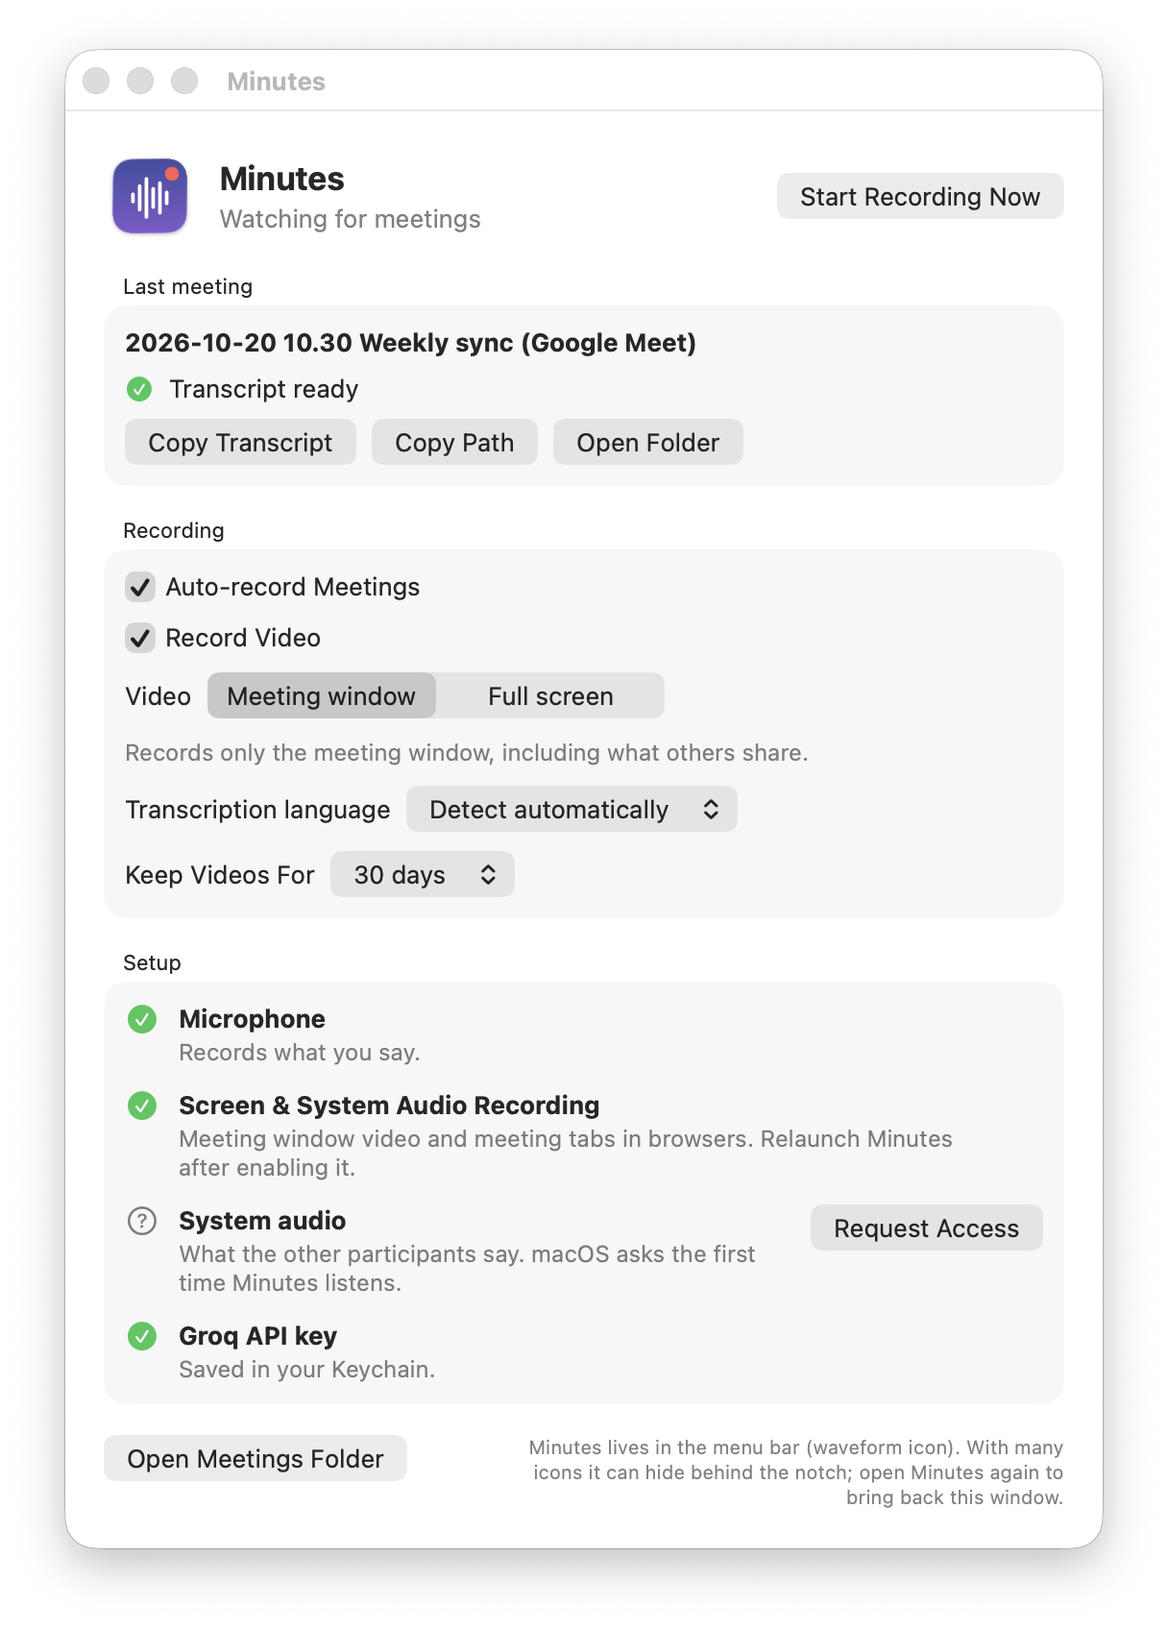
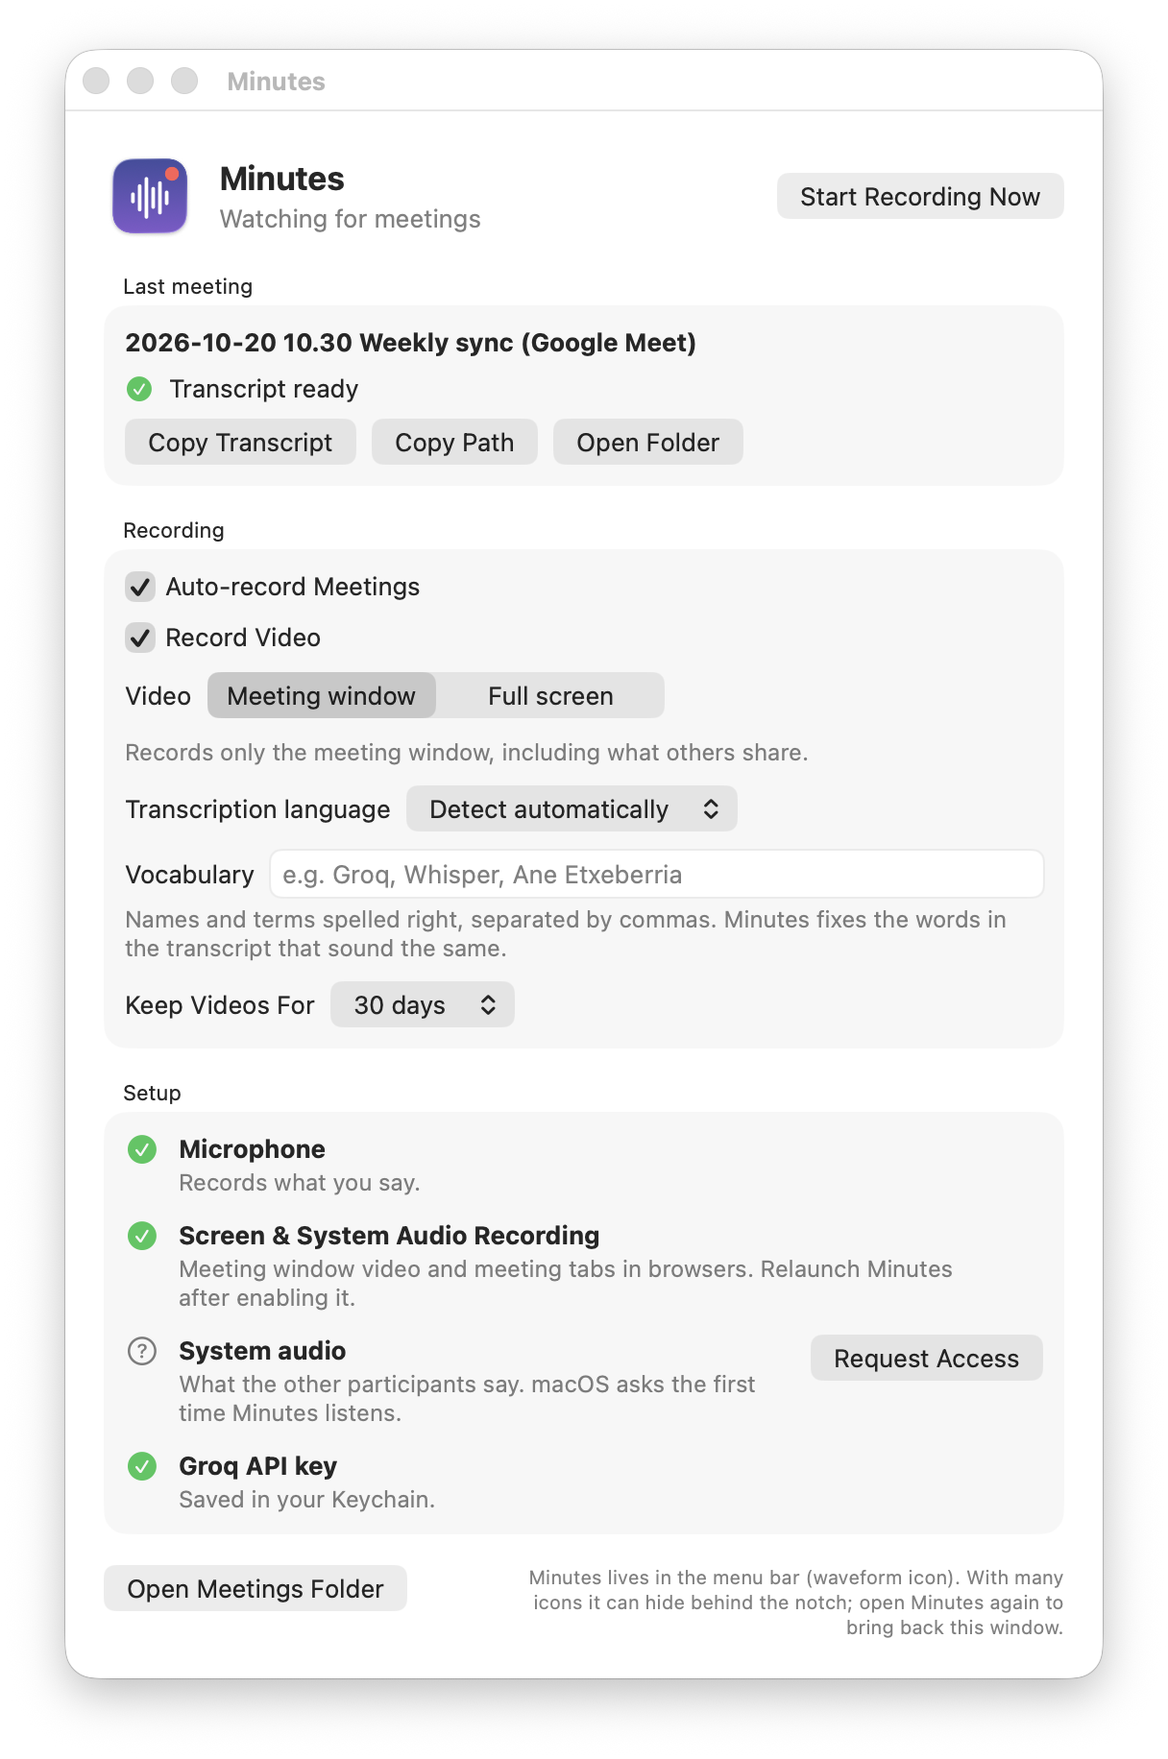
feat(transcription): correct names from a user vocabulary
Whisper writes unknown names as they sound. Sending them as its prompt
fixed them but made it invent sentences and drop text, so the terms
the user lists in the window now correct the assembled transcript:
words that sound like a term (b/v, y/i, z/s, silent h, accents) take
its spelling, with one-letter tolerance only for long terms.

diff --git a/Sources/MinutesCore/Transcription/TranscriptVocabulary.swift b/Sources/MinutesCore/Transcription/TranscriptVocabulary.swift
@@ -1,0 +1,134 @@
+import Foundation
+
+/// The user's confirmed spellings (names, brands, jargon), applied to the transcript after Whisper.
+///
+/// Whisper writes unknown names as they sound ("Movilia" for "Mobilia"). Sending the terms as
+/// Whisper's prompt fixes them but, on the meeting of 2026-10-20, also made it invent sentences and
+/// drop up to three quarters of a minute's text, so the terms correct the result instead.
+public struct TranscriptVocabulary: Sendable {
+    /// Terms at least this long (as sounds) also match a word one letter apart; shorter ones match
+    /// only the same sounds, so common words are never rewritten into a short term.
+    static let minimumFuzzyLength = 6
+
+    public let terms: [String]
+    private let entries: [(term: String, wordCount: Int, key: String)]
+
+    /// Terms separated by commas, semicolons or lines; blank entries and repeats (same sounds) are dropped.
+    public init(_ text: String) {
+        var terms: [String] = []
+        var keys: Set<String> = []
+        for entry in text.split(whereSeparator: { $0 == "," || $0 == ";" || $0.isNewline }) {
+            let term = entry.split(whereSeparator: \.isWhitespace).joined(separator: " ")
+            let key = Self.soundKey(term)
+            guard !key.isEmpty, keys.insert(key).inserted else { continue }
+            terms.append(term)
+        }
+        self.terms = terms
+        // Longer terms first, so "Aitor García" wins over "Aitor".
+        entries = terms
+            .map { (term: $0, wordCount: $0.split(separator: " ").count, key: Self.soundKey($0)) }
+            .sorted { $0.wordCount > $1.wordCount }
+    }
+
+    public func correct(_ segments: [TranscriptSegment]) -> [TranscriptSegment] {
+        segments.map { segment in
+            var corrected = segment
+            corrected.text = correct(segment.text)
+            return corrected
+        }
+    }
+
+    /// Replaces each run of words that sounds like a term (words separated only by spaces) with the
+    /// term as the user wrote it, leaving punctuation and every other character untouched.
+    public func correct(_ text: String) -> String {
+        guard !entries.isEmpty else { return text }
+        let words = Self.wordRanges(in: text)
+        var result = ""
+        var copiedUpTo = text.startIndex
+        var index = 0
+        while index < words.count {
+            guard let (term, wordCount) = match(at: index, words: words, in: text) else {
+                index += 1
+                continue
+            }
+            let range = words[index].lowerBound..<words[index + wordCount - 1].upperBound
+            // A lowercase term only fixes spelling: "Reel" opening a sentence keeps its capital.
+            let original = text[range]
+            let keepsCase = term == term.lowercased() && original.lowercased() == term
+            result += text[copiedUpTo..<range.lowerBound] + (keepsCase ? String(original) : term)
+            copiedUpTo = range.upperBound
+            index += wordCount
+        }
+        return result + text[copiedUpTo...]
+    }
+
+    private func match(at index: Int, words: [Range<String.Index>], in text: String) -> (String, Int)? {
+        for entry in entries where index + entry.wordCount <= words.count {
+            let window = words[index..<(index + entry.wordCount)]
+            let separatedBySpaces = zip(window, window.dropFirst()).allSatisfy { previous, next in
+                text[previous.upperBound..<next.lowerBound].allSatisfy(\.isWhitespace)
+            }
+            guard separatedBySpaces else { continue }
+            let key = Self.soundKey(window.map { String(text[$0]) }.joined(separator: " "))
+            if Self.sounds(key, like: entry.key) { return (entry.term, entry.wordCount) }
+        }
+        return nil
+    }
+
+    private static func sounds(_ key: String, like termKey: String) -> Bool {
+        if key == termKey { return true }
+        guard termKey.count >= minimumFuzzyLength, key.first == termKey.first else { return false }
+        return editDistance(Array(key), Array(termKey), limit: 1) <= 1
+    }
+
+    /// How a word sounds in Spanish, roughly: no case or accents, b = v, i = y, s = z, silent h,
+    /// doubled letters once.
+    static func soundKey(_ text: String) -> String {
+        let folded = text.folding(options: [.caseInsensitive, .diacriticInsensitive], locale: Locale(identifier: "en_US_POSIX"))
+            .lowercased()
+        var key = ""
+        for character in folded {
+            let sound: Character? = switch character {
+            case "h": nil
+            case "v": "b"
+            case "y": "i"
+            case "z": "s"
+            default: character.isLetter || character.isNumber || character == " " ? character : nil
+            }
+            if let sound, sound != key.last || sound == " " { key.append(sound) }
+        }
+        return key.split(separator: " ").joined(separator: " ")
+    }
+
+    /// Ranges of the runs of letters and digits.
+    private static func wordRanges(in text: String) -> [Range<String.Index>] {
+        var ranges: [Range<String.Index>] = []
+        var start: String.Index?
+        for index in text.indices {
+            let isWordCharacter = text[index].isLetter || text[index].isNumber
+            if isWordCharacter, start == nil {
+                start = index
+            } else if !isWordCharacter, let wordStart = start {
+                ranges.append(wordStart..<index)
+                start = nil
+            }
+        }
+        if let start { ranges.append(start..<text.endIndex) }
+        return ranges
+    }
+
+    /// Levenshtein distance, or `limit + 1` as soon as it is known to exceed `limit`.
+    private static func editDistance(_ lhs: [Character], _ rhs: [Character], limit: Int) -> Int {
+        guard abs(lhs.count - rhs.count) <= limit else { return limit + 1 }
+        var previous = Array(0...rhs.count)
+        for (i, left) in lhs.enumerated() {
+            var current = [i + 1] + Array(repeating: 0, count: rhs.count)
+            for (j, right) in rhs.enumerated() {
+                current[j + 1] = min(previous[j + 1] + 1, current[j] + 1, previous[j] + (left == right ? 0 : 1))
+            }
+            if current.min()! > limit { return limit + 1 }
+            previous = current
+        }
+        return previous[rhs.count]
+    }
+}

diff --git a/Tests/MinutesCoreTests/TranscriptVocabularyTests.swift b/Tests/MinutesCoreTests/TranscriptVocabularyTests.swift
@@ -1,0 +1,65 @@
+import Testing
+import MinutesCore
+
+@Suite struct TranscriptVocabularyTests {
+    @Test func readsTermsSeparatedByCommasSemicolonsOrLinesWithoutDuplicates() {
+        let vocabulary = TranscriptVocabulary(" Mobilia, Residelia\n Nexo;; mobilia ,\n\nAitor García ")
+        #expect(vocabulary.terms == ["Mobilia", "Residelia", "Nexo", "Aitor García"])
+        #expect(TranscriptVocabulary("  ,\n ").terms.isEmpty)
+    }
+
+    /// The misspellings of the meeting of 2026-10-20, where Whisper wrote names as they sound.
+    @Test func rewritesWordsThatSoundLikeATermWithTheTermsSpelling() {
+        let vocabulary = TranscriptVocabulary("Mobilia, Residelia, Xabi, ManyChat")
+        #expect(vocabulary.correct("con Movilia directamente") == "con Mobilia directamente")
+        #expect(vocabulary.correct("el tema con movilia es") == "el tema con Mobilia es")
+        #expect(vocabulary.correct("hablar con Resideria") == "hablar con Residelia")
+        #expect(vocabulary.correct("Vale, perfecto Xavi") == "Vale, perfecto Xabi")
+        #expect(vocabulary.correct("como lo de Menichat y Instagram") == "como lo de ManyChat y Instagram")
+    }
+
+    @Test func keepsPunctuationAndEverythingElseAroundTheWord() {
+        let vocabulary = TranscriptVocabulary("Mobilia")
+        #expect(vocabulary.correct("¿Movilia? Sí, (movilia).") == "¿Mobilia? Sí, (Mobilia).")
+    }
+
+    @Test func leavesWordsThatOnlyLookAlikeUntouched() {
+        let vocabulary = TranscriptVocabulary("Mobilia, Residelia, Nexo")
+        let text = "la movilidad de la residencia, una inmobiliaria en Nextwork"
+        #expect(vocabulary.correct(text) == text)
+    }
+
+    @Test func shortTermsOnlyFixCaseAndAccents() {
+        let vocabulary = TranscriptVocabulary("Nexo, Aitor")
+        #expect(vocabulary.correct("en el nexo, con aítor") == "en el Nexo, con Aitor")
+        #expect(vocabulary.correct("con Nexa y Hitor") == "con Nexa y Hitor")
+    }
+
+    @Test func aLowercaseTermKeepsTheCapitalOfAWordAtTheStartOfASentence() {
+        let vocabulary = TranscriptVocabulary("reel, mobilia")
+        #expect(vocabulary.correct("Reel, el reél y el REEL") == "Reel, el reel y el REEL")
+        #expect(vocabulary.correct("Movilia") == "mobilia")
+    }
+
+    @Test func termsOfSeveralWordsMatchTheSameWordsInARow() {
+        let vocabulary = TranscriptVocabulary("Aitor García")
+        #expect(vocabulary.correct("habla con aitor garcia mañana") == "habla con Aitor García mañana")
+        #expect(vocabulary.correct("aitor, garcia") == "aitor, garcia")
+    }
+
+    @Test func correctsEverySegmentAndKeepsTheRestOfIt() {
+        let vocabulary = TranscriptVocabulary("Mobilia")
+        let segments = [
+            TranscriptSegment(speaker: .me, start: 1, end: 2, text: "con Movilia"),
+            TranscriptSegment(speaker: .them, start: 3, end: 4, text: "vale"),
+        ]
+        #expect(vocabulary.correct(segments) == [
+            TranscriptSegment(speaker: .me, start: 1, end: 2, text: "con Mobilia"),
+            TranscriptSegment(speaker: .them, start: 3, end: 4, text: "vale"),
+        ])
+    }
+
+    @Test func anEmptyVocabularyChangesNothing() {
+        #expect(TranscriptVocabulary("").correct("con Movilia") == "con Movilia")
+    }
+}

diff --git a/Sources/Minutes/TranscriptionPipeline.swift b/Sources/Minutes/TranscriptionPipeline.swift
@@ -47,6 +47,7 @@ actor TranscriptionPipeline {
     private let root: URL
     private let apiKeyProvider: @Sendable () -> String?
     private let languageProvider: @Sendable () -> String?
+    private let vocabularyProvider: @Sendable () -> String
     private let makeClient: @Sendable (String) -> GroqClient
     private let exportFinalAudio: @Sendable (URL, URL) throws -> Void
     private let onStatus: @Sendable (Status) -> Void
@@ -57,12 +58,14 @@ actor TranscriptionPipeline {
     private let logger = Logger(subsystem: "io.github.xabilarra.Minutes", category: "transcription")
 
     /// - Parameters:
+    ///   - vocabularyProvider: the user's terms (see `TranscriptVocabulary`), read once per meeting.
     ///   - makeClient: builds the Groq client for an API key (tests inject a fake transport).
     ///   - exportFinalAudio: converts a CAF track to its final m4a (tests inject failures).
     init(
         root: URL,
         apiKeyProvider: @escaping @Sendable () -> String?,
         languageProvider: @escaping @Sendable () -> String? = { nil },
+        vocabularyProvider: @escaping @Sendable () -> String = { "" },
         makeClient: @escaping @Sendable (String) -> GroqClient = { GroqClient(apiKey: $0, tokenizer: TranscriptionPipeline.tokenizer) },
         exportFinalAudio: @escaping @Sendable (URL, URL) throws -> Void = { try AudioFileTools.exportM4A(from: $0, to: $1) },
         onStatus: @escaping @Sendable (Status) -> Void,
@@ -71,6 +74,7 @@ actor TranscriptionPipeline {
         self.root = root
         self.apiKeyProvider = apiKeyProvider
         self.languageProvider = languageProvider
+        self.vocabularyProvider = vocabularyProvider
         self.makeClient = makeClient
         self.exportFinalAudio = exportFinalAudio
         self.onStatus = onStatus
@@ -128,6 +132,7 @@ actor TranscriptionPipeline {
         // nil lets Whisper detect the language; read once so a meeting uses one language throughout.
         let language = languageProvider()
         let storedLanguage = language ?? TranscriptionLanguage.automatic
+        let vocabulary = TranscriptVocabulary(vocabularyProvider())
         metadata.transcription = TranscriptionStatus(
             state: .transcribing, model: GroqClient.defaultModel, language: storedLanguage)
         try? MetadataStore.write(metadata, to: folder)
@@ -148,7 +153,7 @@ actor TranscriptionPipeline {
             let them = try await transcribeTrack(
                 Self.audioSource(.systemRaw, .systemAudio, in: folder), speaker: .them, language: language, client: client,
                 workDirectory: workDirectory, cache: cache)
-            let segments = TranscriptAssembler.assemble(me: me, them: them)
+            let segments = vocabulary.correct(TranscriptAssembler.assemble(me: me, them: them))
 
             // Raw tracks are deleted last: any failure before this point leaves everything retryable.
             try exportVerifiedAudio(in: folder)

diff --git a/Tests/MinutesTests/TranscriptionPipelineTests.swift b/Tests/MinutesTests/TranscriptionPipelineTests.swift
@@ -242,6 +242,43 @@ import Testing
         #expect(try MetadataStore.read(from: folder).transcription.language == (language ?? "auto"))
     }
 
+    /// The vocabulary corrects the written transcript; Whisper never receives it as a prompt.
+    @Test func theVocabularyCorrectsTheTranscriptWithoutPromptingWhisper() async throws {
+        let root = FileManager.default.temporaryDirectory
+            .appending(path: "MinutesPipelineTests-\(UUID().uuidString)", directoryHint: .isDirectory)
+        defer { try? FileManager.default.removeItem(at: root) }
+        let folder = root.appending(path: "2026-10-19 10.30 Test (Zoom)", directoryHint: .isDirectory)
+        try FileManager.default.createDirectory(at: folder, withIntermediateDirectories: true)
+        try writeTone(to: folder.appending(path: MeetingFile.micRaw.rawValue), seconds: 3)
+        try MetadataStore.write(
+            MeetingMetadata(
+                appName: "Zoom", appBundleID: "us.zoom.xos", title: nil, windowTitle: nil,
+                trigger: "auto", startedAt: Date(), hasVideo: false),
+            to: folder)
+
+        let transport = RecordingGroqTransport()
+        let (finished, continuation) = AsyncStream.makeStream(of: Bool.self)
+        let pipeline = TranscriptionPipeline(
+            root: root,
+            apiKeyProvider: { "gsk_test" },
+            vocabularyProvider: { "Hola, Mobilia" },
+            makeClient: { GroqClient(apiKey: $0, transport: transport, sleeper: { _ in }) },
+            onStatus: { _ in },
+            onFinished: { _, failure in continuation.yield(failure != nil) })
+        var results = finished.makeAsyncIterator()
+
+        await pipeline.enqueue(folder)
+        #expect(await results.next() == false)
+        let body = try #require(await transport.bodies.first)
+        #expect(!body.contains("name=\"prompt\""))
+        let markdown = try String(
+            contentsOf: folder.appending(path: MeetingFile.transcriptMarkdown.rawValue), encoding: .utf8)
+        #expect(markdown.contains("Yo: Hola"))
+        let json = try String(
+            contentsOf: folder.appending(path: MeetingFile.transcriptJSON.rawValue), encoding: .utf8)
+        #expect(json.contains("\"Hola\""))
+    }
+
     private func exists(_ folder: URL, _ file: MeetingFile) -> Bool {
         FileManager.default.fileExists(atPath: folder.appending(path: file.rawValue).path)
     }

diff --git a/Sources/Minutes/StatusView.swift b/Sources/Minutes/StatusView.swift
@@ -9,6 +9,7 @@ struct StatusView: View {
     @AppStorage(SettingsKey.videoSource) private var videoSource: VideoSource = .window
     @AppStorage(SettingsKey.videoRetentionDays) private var videoRetentionDays = 30
     @AppStorage(SettingsKey.transcriptionLanguage) private var transcriptionLanguage = TranscriptionLanguage.systemDefault
+    @AppStorage(SettingsKey.transcriptionVocabulary) private var transcriptionVocabulary = ""
 
     var body: some View {
         VStack(alignment: .leading, spacing: 16) {
@@ -38,6 +39,19 @@ struct StatusView: View {
                         }
                     }
                     .fixedSize()
+                    VStack(alignment: .leading, spacing: 4) {
+                        // Outside a Form macOS hides a TextField's own label, so it is shown like the pickers'.
+                        HStack {
+                            Text("Vocabulario")
+                            TextField("Vocabulario", text: $transcriptionVocabulary, prompt: Text("p. ej. Groq, Whisper, Ane Etxeberria"))
+                                .labelsHidden()
+                        }
+                        Text("Nombres y términos bien escritos, separados por comas. Minutes corrige en la transcripción las palabras que suenan igual.")
+                            .font(.callout)
+                            .foregroundStyle(.secondary)
+                            // Without it the wrapped text keeps resizing the window until AppKit aborts.
+                            .fixedSize(horizontal: false, vertical: true)
+                    }
                     Picker("Conservar vídeos", selection: $videoRetentionDays) {
                         Text("7 días").tag(7)
                         Text("30 días").tag(30)

diff --git a/Sources/Minutes/AppSettings.swift b/Sources/Minutes/AppSettings.swift
@@ -8,6 +8,7 @@ enum SettingsKey {
     static let videoRetentionDays = "videoRetentionDays"
     static let videoSource = "videoSource"
     static let transcriptionLanguage = "transcriptionLanguage"
+    static let transcriptionVocabulary = "transcriptionVocabulary"
     static let didRequestSystemAudio = "didRequestSystemAudio"
 }
 
@@ -60,6 +61,9 @@ struct AppSettings {
         let code = defaults.string(forKey: SettingsKey.transcriptionLanguage) ?? TranscriptionLanguage.automatic
         return code == TranscriptionLanguage.automatic ? nil : code
     }
+
+    /// Names and terms whose spelling corrects the transcript, separated by commas or lines.
+    var transcriptionVocabulary: String { defaults.string(forKey: SettingsKey.transcriptionVocabulary) ?? "" }
 
     /// nil keeps videos forever (stored as 0).
     var videoRetentionDays: Int? {

diff --git a/Sources/Minutes/RecordingCoordinator.swift b/Sources/Minutes/RecordingCoordinator.swift
@@ -246,6 +246,7 @@ final class RecordingCoordinator: ObservableObject {
             root: AppSettings().meetingsRoot,
             apiKeyProvider: { KeychainStore.read(account: KeychainStore.groqAPIKeyAccount) },
             languageProvider: { AppSettings().transcriptionLanguage },
+            vocabularyProvider: { AppSettings().transcriptionVocabulary },
             onStatus: { [weak self] status in
                 Task { @MainActor in self?.transcription = status }
             },

diff --git a/README.es.md b/README.es.md
@@ -40,7 +40,7 @@ open /Applications/Minutes.app
 | 🎧 **Dos pistas limpias** | Tu micrófono (**Yo**) y los demás participantes (**Ellos**) se graban por separado con un *process tap* de Core Audio, así la transcripción sabe quién dijo qué. |
 | 🖥 **Vídeo nítido** | La ventana de la reunión (con lo que compartan los demás) o la pantalla completa (con lo que presentes tú), a resolución nativa hasta 2560 px, HEVC por hardware, unos 0,5 GB por hora. |
 | 📋 **Listo para tu agente** | Transcripciones en Markdown y JSON con marcas de tiempo alineadas con el vídeo. Al colgar, un clic para copiar el texto o la ruta del archivo. |
-| 🧹 **Transcripciones limpias** | Se saltan los silencios, se filtran las frases que Whisper se inventa y se quita de tus líneas el eco de tus altavoces. |
+| 🧹 **Transcripciones limpias** | Se saltan los silencios, se filtran las frases que Whisper se inventa y se quita de tus líneas el eco de tus altavoces. Los nombres que añadas al **Vocabulario** salen bien escritos. |
 | 🔒 **Local y privado** | Las grabaciones y transcripciones nunca salen de tu Mac; solo los trozos de audio van a Groq para transcribirse. Sin cuenta ni telemetría. |
 | 🪶 **Ligerísimo** | Una app SwiftUI de 3 MB. La captura y la compresión usan los frameworks de macOS y el chip multimedia. |
 | 🌍 **Bilingüe** | Interfaz en español e inglés. Transcribe en tu idioma o deja que Whisper lo detecte. |

diff --git a/README.md b/README.md
@@ -40,7 +40,7 @@ open /Applications/Minutes.app
 | 🎧 **Two clean tracks** | Your microphone (**Yo**) and the other participants (**Ellos**) are recorded separately with a Core Audio process tap, so the transcript knows who said what. |
 | 🖥 **Sharp video** | The meeting window (including what others share) or the whole screen (including what you present), native resolution up to 2560 px, hardware HEVC, about 0.5 GB per hour. |
 | 📋 **Agent-ready** | Markdown and JSON transcripts with timestamps that line up with the video. One click to copy the text or the file path when the call ends. |
-| 🧹 **Clean transcripts** | Silence is skipped, Whisper's invented phrases are filtered out, and your speakers' echo is removed from your lines. |
+| 🧹 **Clean transcripts** | Silence is skipped, Whisper's invented phrases are filtered out, and your speakers' echo is removed from your lines. Names you add to the **Vocabulary** come out spelled right. |
 | 🔒 **Local and private** | Recordings and transcripts never leave your Mac; only audio chunks go to Groq to be transcribed. No account, no telemetry. |
 | 🪶 **Featherweight** | A 3 MB SwiftUI app. Capture and encoding run on macOS' own frameworks and media engine. |
 | 🌍 **Bilingual** | Spanish and English UI. Transcribe in your language or let Whisper detect it. |
